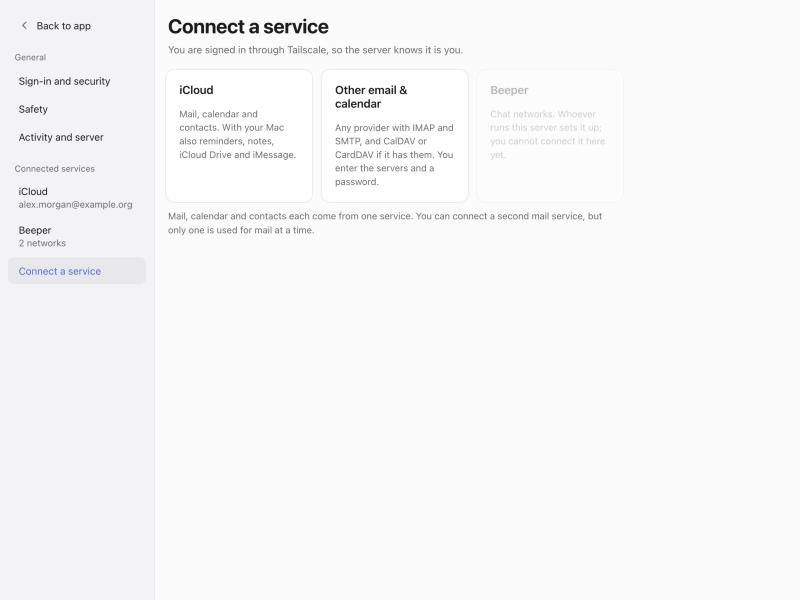
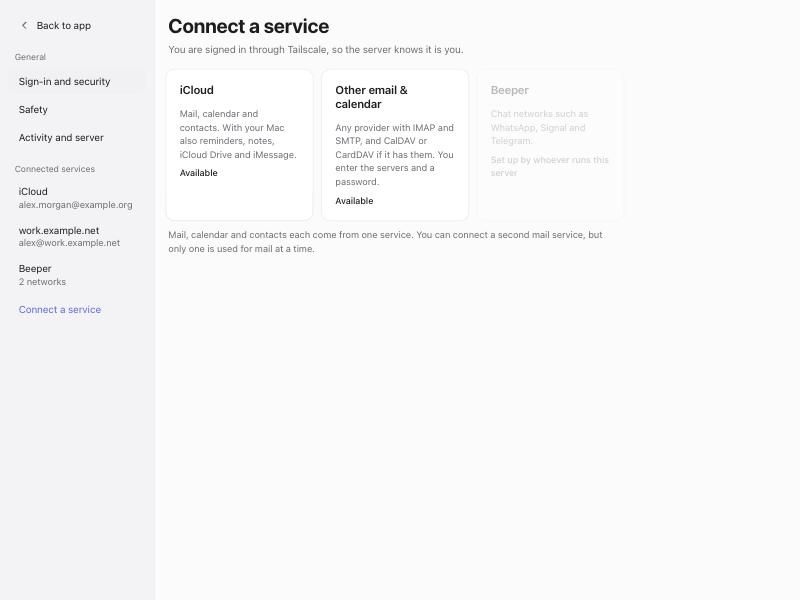
Connect a service: status per choice, provider presets that fill in the servers, limits per service
- Each choice on Connect a service ends with one status line; Beeper's
  says it is set up by whoever runs the server.
- The form for another provider starts with Provider (Custom, WEB.DE,
  Gmail). A preset only fills in the servers, which stay editable under
  Advanced server settings; the account stays "other". The endpoint data
  lives in accounts.SERVER_PRESETS (was LEGACY_ENDPOINTS) and still
  serves old webde/gmail files.
- iCloud and another provider name their limits in one sentence.
- A #/settings, #/activity or #/connect link opened inside the running
  app now works too.

diff --git a/src/icloud_mcp/static/app/services.js b/src/icloud_mcp/static/app/services.js
@@ -84,13 +84,13 @@ class Service extends HTMLElement {
     const firstIcloud = r.accounts.find((x) => x.provider === "icloud");
     const mac = a.provider === "icloud" && firstIcloud.id === a.id
       ? section("Through your Mac", macAside(st.mac || {})) + `<ion-list class="inset">${macRows(st)}</ion-list>
-        <p class="note">These run on your Mac and only work while it is on and connected.</p>` : "";
+        <p class="note">Reminders, notes, iCloud Drive and iMessage work only through your Mac, while it is on and connected.</p>` : "";
     const servers = a.servers ? section("Servers") + `<ion-list class="inset">${[["imap", "Incoming mail (IMAP)"], ["smtp", "Outgoing mail (SMTP)"],
       ["caldav", "Calendar (CalDAV)"], ["carddav", "Contacts (CardDAV)"]].map(([k, l]) => row({ title: l, note: esc(a.servers[k] || "not set") })).join("")}</ion-list>` : "";
     const icloud = a.provider === "icloud";
     this.body.innerHTML = titleBlock(a.name, `${esc(a.address)} · ${SIGN_IN[a.provider] || ""}`)
       + restartNotice(st)
-      + section("Used for") + `<ion-list class="inset">${used}</ion-list><p class="note">${ONE_EACH}</p>`
+      + section("Used for") + `<ion-list class="inset">${used}</ion-list><p class="note">${ONE_EACH}${a.provider === "other" ? " Reminders and notes are not available with this kind of service." : ""}</p>`
       + (can ? "" : `<div class="notice pause"><span>${esc(r.connect.why)}</span></div>`)
       + (settingsRows ? section("Settings") + `<ion-list class="inset">${settingsRows}</ion-list>` : "")
       + mac + servers
@@ -184,13 +184,16 @@ class Connect extends HTMLElement {
     let r;
     try { r = await get("/accounts"); } catch (e) { fail(e); return; }
     const can = r.connect.allowed;
-    const tile = (key, title, text, on) => `<ion-card ${on ? `button data-provider="${key}"` : 'disabled="true"'}>
-      <ion-card-header><ion-card-title>${title}</ion-card-title></ion-card-header><ion-card-content>${text}</ion-card-content></ion-card>`;
+    // each choice ends with one plain line on whether it can be connected here
+    const tile = (key, title, text, on, status) => `<ion-card ${on ? `button data-provider="${key}"` : 'disabled="true"'}>
+      <ion-card-header><ion-card-title>${title}</ion-card-title></ion-card-header>
+      <ion-card-content>${text}<p class="status">${status}</p></ion-card-content></ion-card>`;
+    const here = can ? "Available" : "Needs your sign-in through Tailscale";
     body.innerHTML = titleBlock("Connect a service", can ? `You are signed in through ${esc(r.connect.via)}, so the server knows it is you.` : "")
       + (can ? "" : `<div class="notice pause"><span>${esc(r.connect.why)}</span></div>`)
-      + `<div class="tiles">${tile("icloud", "iCloud", "Mail, calendar and contacts. With your Mac also reminders, notes, iCloud Drive and iMessage.", can)}
-        ${tile("other", "Other email &amp; calendar", "Any provider with IMAP and SMTP, and CalDAV or CardDAV if it has them. You enter the servers and a password.", can)}
-        ${tile("beeper", "Beeper", "Chat networks. Whoever runs this server sets it up; you cannot connect it here yet.", false)}</div>`
+      + `<div class="tiles">${tile("icloud", "iCloud", "Mail, calendar and contacts. With your Mac also reminders, notes, iCloud Drive and iMessage.", can, here)}
+        ${tile("other", "Other email &amp; calendar", "Any provider with IMAP and SMTP, and CalDAV or CardDAV if it has them. You enter the servers and a password.", can, here)}
+        ${tile("beeper", "Beeper", "Chat networks such as WhatsApp, Signal and Telegram.", false, "Set up by whoever runs this server")}</div>`
       + `<p class="note">Mail, calendar and contacts each come from one service. You can connect a second mail service, but only one is used for mail at a time.</p>`;
     this.querySelectorAll("[data-provider]").forEach((n) => n.addEventListener("click", () => push(this, "icm-connect-form", { provider: n.dataset.provider })));
   }
@@ -211,7 +214,7 @@ class ConnectForm extends HTMLElement {
         <li>Under Sign-In and Security, choose App-Specific Passwords.</li>
         <li>Generate one, name it for example “Assistant”, and copy it.</li></ol></ion-label></ion-item></ion-list>
         <p class="note">Apple gives app-specific passwords only to accounts with two-factor authentication. <a href="${APPLE_HELP}" target="_blank" rel="noopener noreferrer">Apple's guide</a></p>`
-      : section("Servers") + `<ion-list class="inset">${input("imap", "Incoming mail (IMAP)", 'placeholder="imap.example.org:993" autocomplete="off"')}
+      : section("Advanced server settings") + `<ion-list class="inset">${input("imap", "Incoming mail (IMAP)", 'placeholder="imap.example.org:993" autocomplete="off"')}
         ${input("smtp", "Outgoing mail (SMTP)", 'placeholder="smtp.example.org:587" autocomplete="off"')}
         ${input("caldav", "Calendar (CalDAV)", 'type="url" placeholder="https://dav.example.org/" autocomplete="off"')}
         ${input("carddav", "Contacts (CardDAV)", 'type="url" placeholder="https://dav.example.org/" autocomplete="off"')}</ion-list>
@@ -219,18 +222,29 @@ class ConnectForm extends HTMLElement {
     const holder = (k) => this.r.accounts.find((x) => x.uses.includes(k));
     const areas = AREAS.map(([k, label]) => `<ion-item><ion-toggle data-area="${k}" ${holder(k) ? "" : "checked"}>${label}${holder(k)
       ? `<br><small class="sub">Now from ${esc(holder(k).name)}. Turn on to move it here.</small>` : ""}</ion-toggle></ion-item>`).join("");
+    // another provider: a preset only fills in the servers, which stay editable below
+    const provider = icloud ? "" : `<ion-list class="inset" style="margin-top:14px!important"><ion-item><ion-select data-preset label="Provider" interface="action-sheet" value="custom">
+        <ion-select-option value="custom">Custom</ion-select-option>${this.r.connect.presets.map((p) =>
+          `<ion-select-option value="${esc(p.id)}">${esc(p.label)}</ion-select-option>`).join("")}</ion-select></ion-item></ion-list>
+        <p class="note">A preset fills in the servers under Advanced server settings. You can still change them.</p>`;
     this.body.innerHTML = titleBlock(icloud ? "Connect iCloud" : "Connect other email & calendar",
       icloud ? "Your assistant can use the areas you choose below." : "Any provider with IMAP and SMTP, CalDAV or CardDAV.")
-      + prep + `<div data-failure></div>`
+      + provider + (icloud ? prep : "") + `<div data-failure></div>`
       + section("Sign-in") + `<ion-list class="inset">${input("username", icloud ? "Apple Account email" : "Email address or user name", 'type="email" autocomplete="username"')}
         ${input("password", icloud ? "App-specific password" : "Password", `type="password" autocomplete="off" ${icloud ? 'placeholder="abcd-efgh-ijkl-mnop"' : ""}`)}</ion-list>`
       + section("Use it for") + `<ion-list class="inset">${areas}
         <ion-item><ion-toggle data-f="read_only">Read only<br><small class="sub">Your assistant can read but not send or change anything here</small></ion-toggle></ion-item></ion-list>`
+      + (icloud ? "" : prep)
       + section("Sender (optional)") + `<ion-list class="inset">${input("email_address", "Send as", 'type="email" placeholder="Leave empty to use the address above"')}
         ${input("display_name", "Your name in mail", 'autocomplete="name"')}</ion-list>`
       + `<p class="note">The password stays on this server and is never shown; your assistant never sees it. The check signs in once and takes a few seconds.</p>
         <div class="acts"><ion-button data-go>Check and connect</ion-button></div>`;
     this.querySelector("[data-go]").addEventListener("click", () => this.send());
+    this.querySelector("[data-preset]")?.addEventListener("ionChange", (e) => {
+      const p = this.r.connect.presets.find((x) => x.id === e.detail.value);
+      if (!p) return;                                        // Custom keeps what is there
+      for (const k of ["imap", "smtp", "caldav", "carddav"]) this.querySelector(`[data-f="${k}"]`).value = p[k];
+    });
   }
 
   async value(name) {

diff --git a/src/icloud_mcp/static/app/app.css b/src/icloud_mcp/static/app/app.css
@@ -149,6 +149,8 @@ ion-toggle::part(label) { white-space: normal; }
 .tiles ion-card { margin: 0; border: 1px solid var(--border); border-radius: var(--radius); box-shadow: none; }
 .tiles ion-card-title { font-size: 17px; font-weight: 600; color: var(--text); }
 .tiles ion-card-content { color: var(--muted); font-size: 14px; line-height: 1.45; }
+.tiles ion-card-content .status { margin: 8px 0 0; color: var(--text); font-size: 13.5px; font-weight: 500; }
+.tiles ion-card[disabled] .status { color: var(--muted); }
 ol.steps { margin: 6px 0 0; padding-left: 20px; line-height: 1.5; font-size: 15px; }
 ol.steps li { margin: 3px 0; }
 ol.steps a { color: var(--accent-ink); font-weight: 500; text-decoration: none; }

diff --git a/src/icloud_mcp/static/app/app.js b/src/icloud_mcp/static/app/app.js
@@ -180,7 +180,11 @@ async function main() {
   }
   shell();
   startPolling();
-  window.addEventListener("hashchange", () => { const k = itemFromHash(); if (k) openItem(k); });
+  window.addEventListener("hashchange", () => {
+    const k = itemFromHash();
+    if (k) openItem(k);
+    else if (/^#\/(activity|settings|connect)$/.test(location.hash)) location.reload();   // the shell reads these when it starts
+  });
   window.addEventListener("icm:signed-out", () => location.reload());
   window.addEventListener("icm:changed", () => setTimeout(poll, 300));
   navigator.serviceWorker?.addEventListener("message", (e) => { if (e.data && e.data.open) openItem(e.data.open); });

diff --git a/src/icloud_mcp/accounts.py b/src/icloud_mcp/accounts.py
@@ -33,16 +33,19 @@ PENDING_USERNAME = "pending@setup.invalid"   # what the server runs with before 
 CHECK_TIMEOUT = 25                           # seconds one sign-in check may take
 
 # Two kinds of account: iCloud with Apple's own servers (the upstream project's defaults, config.py), and any other provider whose
-# servers the person enters. Files saved before 2026-11 can still name "webde" or "gmail": they read as "other" with the servers
-# those presets used (LEGACY_ENDPOINTS), so nothing they run with changes.
+# servers the person enters. SERVER_PRESETS only fill in those servers on the connect form ("Provider"); the account is still
+# "other". Files saved before 2026-11 can name "webde" or "gmail" as the provider: they read as "other" with the preset's servers,
+# so nothing they run with changes. Sources: WEB.DE hilfe.web.de/pop-imap/imap/imap-serverdaten.html, CalDAV/CardDAV hosts as
+# tested by davx5.com; Gmail developers.google.com/workspace/gmail/imap/imap-smtp (calendar and contacts need Google sign-in).
 PROVIDERS: dict[str, dict[str, Any]] = {
     "icloud": {"label": "iCloud", "imap": "imap.mail.me.com:993", "smtp": "smtp.mail.me.com:587",
                "caldav": "https://caldav.icloud.com", "carddav": "https://contacts.icloud.com", "areas": AREAS},
     "other": {"label": "Other email & calendar", "imap": "", "smtp": "", "caldav": "", "carddav": "", "areas": AREAS},
 }
-LEGACY_ENDPOINTS: dict[str, dict[str, str]] = {
-    "webde": {"imap": "imap.web.de:993", "smtp": "smtp.web.de:587", "caldav": "https://caldav.web.de", "carddav": "https://carddav.web.de"},
-    "gmail": {"imap": "imap.gmail.com:993", "smtp": "smtp.gmail.com:465", "caldav": "", "carddav": ""},
+SERVER_PRESETS: dict[str, dict[str, str]] = {
+    "webde": {"label": "WEB.DE", "imap": "imap.web.de:993", "smtp": "smtp.web.de:587", "caldav": "https://caldav.web.de",
+              "carddav": "https://carddav.web.de"},
+    "gmail": {"label": "Gmail (mail only)", "imap": "imap.gmail.com:993", "smtp": "smtp.gmail.com:465", "caldav": "", "carddav": ""},
 }
 
 
@@ -51,7 +54,7 @@ def _as_known_provider(a: dict[str, Any]) -> dict[str, Any]:
     p = a.get("provider")
     if p in PROVIDERS:
         return a
-    ep = LEGACY_ENDPOINTS.get(p, {})
+    ep = SERVER_PRESETS.get(p, {})
     return dict(a, provider="other", **{k: str(a.get(k) or ep.get(k, "")) for k in ("imap", "smtp", "caldav", "carddav")})
 
 

diff --git a/tests/test_services.py b/tests/test_services.py
@@ -69,9 +69,12 @@ async def test_changing_needs_the_owners_tailscale_identity_on_the_request(web, 
     app, *_ = web(**SSO)
     async with client(app) as c:
         token = await signed_in(c)
-        assert (await c.get("/dashboard/api/accounts")).json()["connect"] == {
-            "allowed": False, "why": "Open the dashboard through Tailscale on your own device, so the server knows it is you.", "via": ""}
-        assert (await c.get("/dashboard/api/accounts", headers=OWNER)).json()["connect"] == {"allowed": True, "why": "", "via": "Tailscale"}
+        assert (await c.get("/dashboard/api/accounts")).json()["connect"]["why"] == \
+            "Open the dashboard through Tailscale on your own device, so the server knows it is you."
+        got = (await c.get("/dashboard/api/accounts", headers=OWNER)).json()["connect"]
+        assert (got["allowed"], got["why"], got["via"]) == (True, "", "Tailscale")
+        assert [(p["id"], p["label"], p["imap"]) for p in got["presets"]] == [
+            ("webde", "WEB.DE", "imap.web.de:993"), ("gmail", "Gmail (mail only)", "imap.gmail.com:993")]
         r = await c.post("/dashboard/api/accounts/env/change", headers=api(token), json={"areas": ["mail"]})
         assert r.status_code == 403 and "Tailscale" in r.json()["error"]
         r = await c.post("/dashboard/api/accounts/env/change", headers={**OWNER, "x-csrf": token}, json={"areas": ["mail"]})

diff --git a/src/icloud_mcp/dashboard_accounts.py b/src/icloud_mcp/dashboard_accounts.py
@@ -122,7 +122,9 @@ def register_accounts_api(mcp: Any, d: Any) -> None:
         beeper = await asyncio.to_thread(beeper_listing, d.s, reader)      # the gateway client runs a loop of its own
         why = await why_not(request)
         via = "" if why else (await owner(request) or ("", ""))[1]
-        return d.api_ok({"accounts": services(d.s), "beeper": beeper, "connect": {"allowed": not why, "why": why, "via": via}})
+        presets = [{"id": k, **v} for k, v in A.SERVER_PRESETS.items()]   # they only fill in the servers on the connect form
+        return d.api_ok({"accounts": services(d.s), "beeper": beeper, "connect": {"allowed": not why, "why": why, "via": via,
+                                                                                   "presets": presets}})
 
     async def guarded(request: Request) -> tuple[dict[str, Any], dict[str, Any]] | Response:
         got = await d.api_writer(request)

diff --git a/docs/DESIGN.md b/docs/DESIGN.md
@@ -54,8 +54,8 @@ each, set once in `app.css` and mapped onto Ionic's variables, so the components
 | Edit text | `icm-item`, `edit.js` | The message card with its text as a text field, a character count, Cancel and Save changes. Only the text changes. A mail with an HTML part cannot be edited and says why |
 | Activity | `icm-activity` | Filter segment, entries per day in plain words with a tag where one helps (Edited, Unclear, Withdrawn), chain check and download |
 | Settings | `icm-settings` | General (sign-in and security, safety switches, activity and server) and, on a phone, the connected services with "Connect a service". On a wide screen a side list replaces the app's: General, then one entry per connected service (name and a grey line: the address, or Beeper's number of networks), then "Connect a service" |
-| One service | `icm-service` (`services.js`) | iCloud or another provider: Used for (one switch per area; turning one on moves the area from the service that had it, a service with no area stays connected), the settings of its areas, "Through your Mac" (first iCloud account only), Servers (another provider), Sign-in (replace the password, read only, Disconnect). Beeper: the networks with your name there (account ID on tap), Send, who it may write to (`BEEPER_SEND_ALLOWLIST`) and Read chats "Not built yet". Group-wide facts are one sentence under the group; there are no pills and no per-row source labels |
-| Connect a service | `icm-connect`, `icm-connect-form` | Ionic cards for iCloud and "Other email & calendar"; Beeper is shown as set up by whoever runs the server. The form checks the sign-in before anything is saved and lists what to try when the provider says no. `/setup` and `#/connect` open it |
+| One service | `icm-service` (`services.js`) | iCloud or another provider: Used for (one switch per area; turning one on moves the area from the service that had it, a service with no area stays connected), the settings of its areas, "Through your Mac" (first iCloud account only), Servers (another provider), Sign-in (replace the password, read only, Disconnect). Beeper: the networks with your name there (account ID on tap), Send, who it may write to (`BEEPER_SEND_ALLOWLIST`) and Read chats "Not built yet". Each page names its limits in one sentence where they apply (iCloud: the Mac areas only while the Mac is on; another provider: no reminders or notes). Group-wide facts are one sentence under the group; there are no pills and no per-row source labels |
+| Connect a service | `icm-connect`, `icm-connect-form` | Ionic cards for iCloud and "Other email & calendar", each with one status line ("Available"); Beeper's says "Set up by whoever runs this server". The form for another provider starts with "Provider" (Custom, WEB.DE, Gmail), which only fills in the servers under "Advanced server settings". The form checks the sign-in before anything is saved and lists what to try when the provider says no. `/setup` and `#/connect` open it |
 | Calendars your assistant sees | `icm-calendars` | The calendar service's calendars as switches, Save in the toolbar |
 | One area | `icm-group` | The area's fields as Ionic controls, Save in the toolbar, reset per field |
 | Notifications, Passkeys, AI clients, Owner password, Server | `icm-*` | One job each |
@@ -89,7 +89,9 @@ Ionic has nothing for these, so they are written here, each in one place in `app
 
 There are two providers: `icloud` (Apple's servers) and `other` ("Other email & calendar", the servers the person entered). A file
 saved while the WEB.DE and Gmail presets existed still loads: `webde` and `gmail` read as `other` with the servers those presets
-used (`accounts.LEGACY_ENDPOINTS`), and the next save writes them out. An account may hold no area at all; it stays connected and
+used (`accounts.SERVER_PRESETS`), and the next save writes them out. The same presets fill in the servers when the owner picks
+WEB.DE or Gmail under "Provider" on the connect form; the account is still "other", and the servers stay editable under
+"Advanced server settings". An account may hold no area at all; it stays connected and
 serves nothing until an area is turned on for it on its page. Every change from the dashboard goes through `setup_page.connect`
 (checks, then the sign-in with the provider) and `accounts.put` (merge: the account takes its areas from the others, an edited one
 keeps its place, a new one goes first).

diff --git a/CHANGELOG.md b/CHANGELOG.md
@@ -17,14 +17,18 @@ Update the Mac helper before the server whenever its version changes.
   network with your name there (the account ID opens on tap) and shows that sending needs your approval, who the assistant may
   write to (`BEEPER_SEND_ALLOWLIST`, which no page showed before) and that reading chats is not built yet.
 - **Connect a service in the dashboard, in English (fork).** The /setup assistant moved into Settings and uses the same Ionic
-  look. It offers iCloud and "Other email & calendar" (IMAP, SMTP, CalDAV, CardDAV); Beeper is shown as set up by whoever runs
-  the server. Connecting, changing and disconnecting need the dashboard sign-in and, on the same request, the owner's identity
+  look. It offers iCloud and "Other email & calendar" (IMAP, SMTP, CalDAV, CardDAV), each with a status line ("Available");
+  Beeper is shown as set up by whoever runs the server. In the form for another provider, "Provider" (Custom, WEB.DE, Gmail)
+  only fills in the servers, which stay editable under "Advanced server settings". Each service page names its limits in one
+  sentence: iCloud's reminders, notes, iCloud Drive and iMessage only through your Mac while it is on; no reminders or notes
+  with another provider. Connecting, changing and disconnecting need the dashboard sign-in and, on the same request, the owner's identity
   from Tailscale or Cloudflare Access, as /setup did. Every change is checked with the provider before it is saved, then the
   server restarts. Saving drops `ENABLE_MAIL`, `ENABLE_CALENDAR` and `ENABLE_CONTACTS` from the dashboard's own settings, so the
   connected services decide which areas are on. `/setup` now leads to `/dashboard#/connect`; the replaced app-password route
   `/dashboard/api/settings/accounts/app-password` is gone (the iCloud page's "Replace" goes through
   `/dashboard/api/accounts/<id>/change`).
-- **Only two providers (fork).** The WEB.DE and Gmail presets are gone. An `accounts.json` that still names `webde` or `gmail`
+- **Only two providers (fork).** WEB.DE and Gmail are no longer providers of their own, only server presets for "Other email &
+  calendar". An `accounts.json` that still names `webde` or `gmail`
   reads as "other" with the servers those presets used, so the server signs in where it always did; the dashboard lists such an
   account as "Other email & calendar" signed in with a password, and a waiting mail from it names no provider.
 
